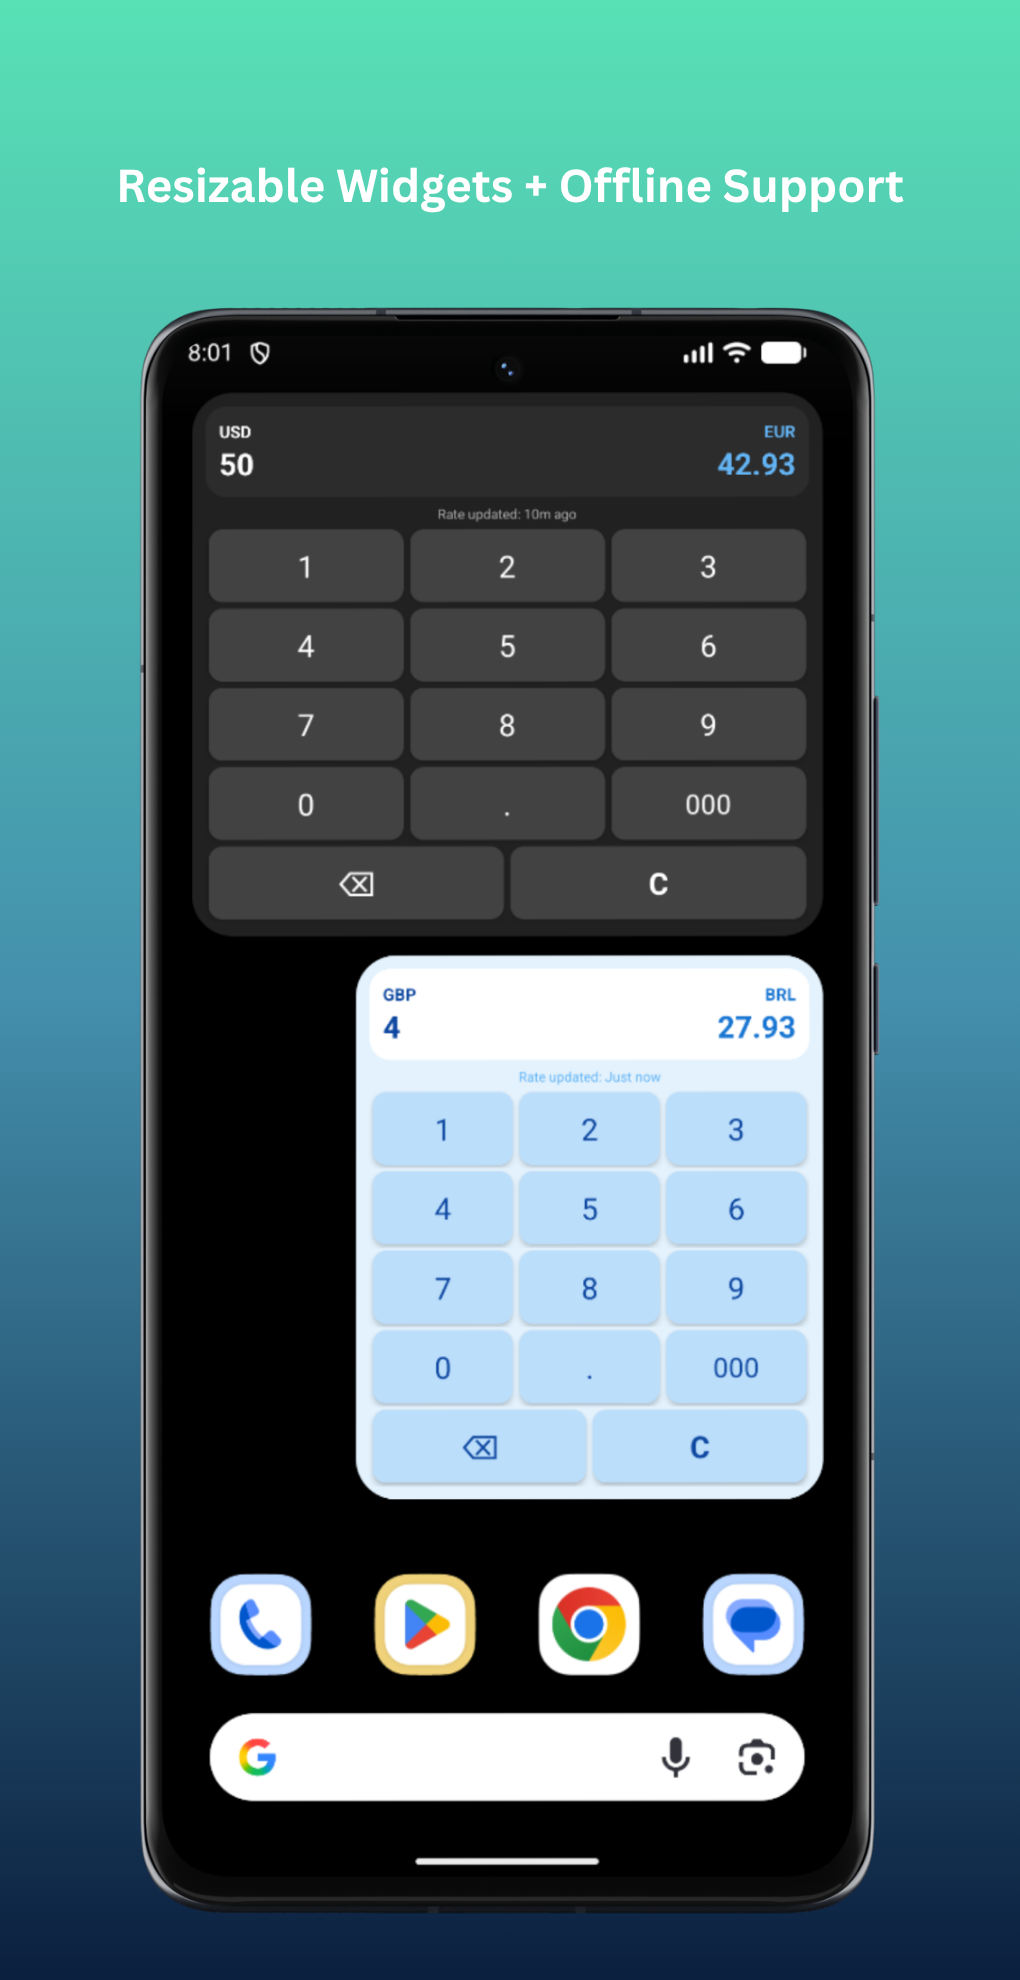
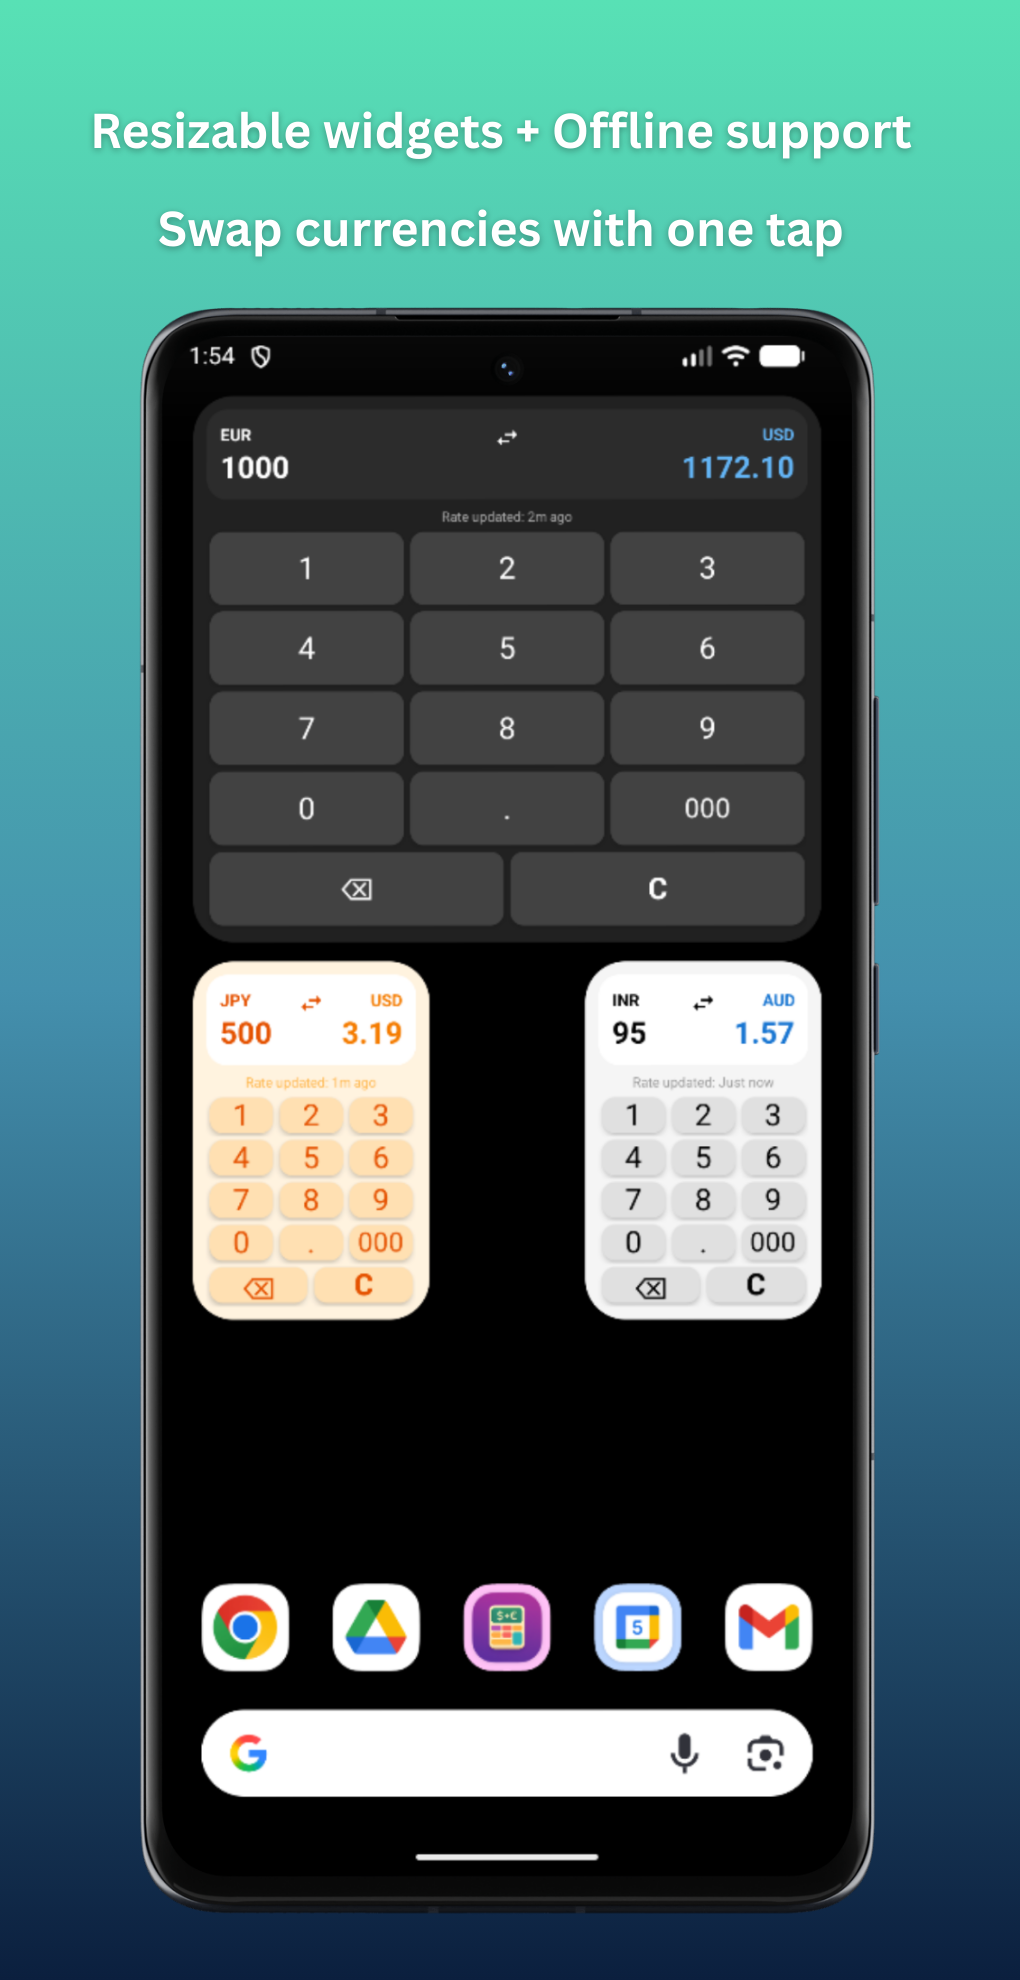
Update store image assets

diff --git a/design/play-store-screenshots/screenshot1-figma-make.tsx b/design/play-store-screenshots/screenshot1-figma-make.tsx
@@ -1,4 +1,4 @@
-import { Globe, Palette, WifiOff, Maximize2, Delete } from "lucide-react";
+import { Globe, Palette, WifiOff, Maximize2, Delete, ArrowLeftRight } from "lucide-react";
 import appIcon from "figma:asset/d2b84eb33c33fad845a17b29f0f051216ef87e46.png";
 
 export default function Screenshot1() {
@@ -42,7 +42,7 @@ export default function Screenshot1() {
               className='bg-gradient-to-br from-slate-800 to-slate-900 rounded-[38px] overflow-hidden'
               style={{
                 width: "480px",
-                height: "900px",
+                height: "1020px",
               }}
             >
               {/* Phone Content */}
@@ -55,28 +55,32 @@ export default function Screenshot1() {
                 {/* Currency Widget */}
                 <div className='bg-gradient-to-br from-amber-50 to-orange-50 rounded-3xl shadow-xl p-6 mb-6'>
                   {/* Header */}
-                  <div className='flex items-start justify-between mb-4'>
-                    <div>
-                      <div className='text-orange-600' style={{ fontSize: "18px" }}>
-                        USD
+                  <div className='bg-amber-100 rounded-xl p-4 mb-4'>
+                    <div className='flex items-start justify-between'>
+                      <div>
+                        <div className='text-orange-600' style={{ fontSize: "18px" }}>
+                          USD
+                        </div>
+                        <div className='text-orange-600' style={{ fontSize: "40px", lineHeight: "1" }}>
+                          10
+                        </div>
                       </div>
-                      <div className='text-orange-600' style={{ fontSize: "40px", lineHeight: "1" }}>
-                        10
-                      </div>
-                    </div>
 
-                    <div className='text-right'>
-                      <div className='text-orange-600' style={{ fontSize: "18px" }}>
-                        EUR
-                      </div>
-                      <div className='text-orange-600' style={{ fontSize: "40px", lineHeight: "1" }}>
-                        8.59
+                      <ArrowLeftRight className='text-orange-600 w-6 h-6 mt-1' />
+
+                      <div className='text-right'>
+                        <div className='text-orange-500' style={{ fontSize: "18px" }}>
+                          EUR
+                        </div>
+                        <div className='text-orange-500' style={{ fontSize: "40px", lineHeight: "1" }}>
+                          8.59
+                        </div>
                       </div>
                     </div>
                   </div>
 
                   {/* Update Banner */}
-                  <div className='bg-amber-200/50 rounded-lg text-center py-1 mb-4'>
+                  <div className='text-center py-1 mb-4'>
                     <span className='text-orange-600' style={{ fontSize: "14px" }}>
                       Rate updated: just now
                     </span>
@@ -114,7 +118,15 @@ export default function Screenshot1() {
                 </div>
 
                 {/* App Icons */}
-                <div className='flex gap-5 justify-center mt-auto'>
+                <div className='flex gap-5 justify-center mt-auto mb-5'>
+                  <div className='w-20 h-20 bg-white/10 backdrop-blur-sm rounded-2xl'></div>
+                  <div className='w-20 h-20 bg-white/10 backdrop-blur-sm rounded-2xl'></div>
+                  <div className='w-20 h-20 bg-white/10 backdrop-blur-sm rounded-2xl'></div>
+                  <div className='w-20 h-20 bg-white/10 backdrop-blur-sm rounded-2xl'></div>
+                </div>
+
+                {/* Second row of app icons */}
+                <div className='flex gap-5 justify-center'>
                   <div className='w-20 h-20 bg-white/10 backdrop-blur-sm rounded-2xl'></div>
                   <div className='w-20 h-20 bg-white/10 backdrop-blur-sm rounded-2xl'></div>
                   <div className='w-20 h-20 bg-white/10 backdrop-blur-sm rounded-2xl'></div>

diff --git a/design/feature-graphic/figma.tsx b/design/feature-graphic/figma.tsx
@@ -43,7 +43,7 @@ return (
             <div className="bg-white/10 backdrop-blur-sm rounded-lg p-3 border border-white/20">
               <Globe className="w-5 h-5 text-white mb-1" />
               <div className="text-white" style={{ fontSize: "16px" }}>
-                31 Currencies
+                32 Currencies
               </div>
             </div>
             <div className="bg-white/10 backdrop-blur-sm rounded-lg p-3 border border-white/20">
